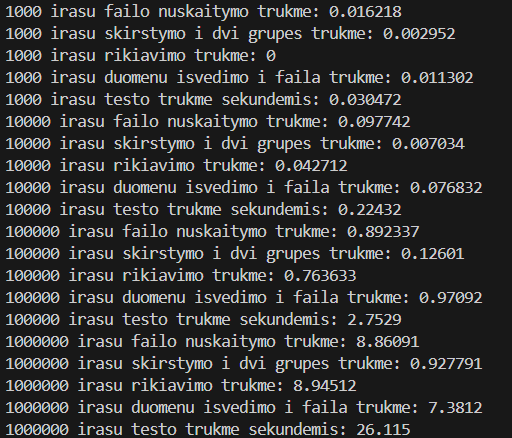
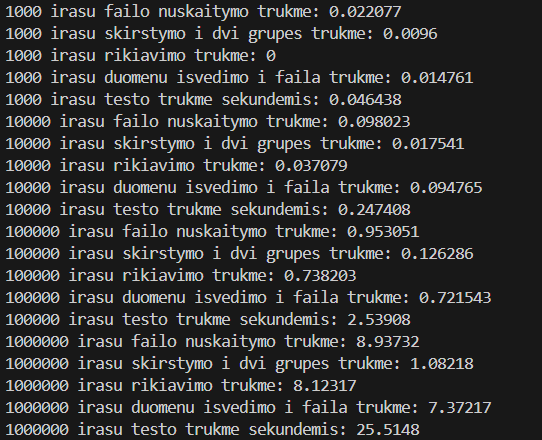
Edited the README.md file
Edited the README.md file with more accurate times

diff --git a/README.md b/README.md
@@ -22,10 +22,10 @@ This is the fifth subversion of my project v0.4
 
 | Studentu skaicius | Failo generavimo trukme | Duomenu nuskaitymo trukme | Duomenu skirstymo trukme | Duomenu rikiavimo trukme | Duomenu isvedimo i failus trukme | Viso testo trukme |
 | ----------------- | ----------------------- | ------------------------- | ------------------------ | ------------------------ | -------------------------------- | ----------------- |
-| 1000              | 0.015606                | 0.016218                  | 0.002952                 | 0                        | 0.011302                         | 0.030472          |
-| 10000             | 0.066734                | 0.097742                  | 0.007034                 | 0.042712                 | 0.076832                         | 0.22432           |
-| 100000            | 0.579735                | 0.892337                  | 0.12601                  | 0.763633                 | 0.97092                          | 2.7529            |
-| 1000000           | 5.70716                 | 8.86091                   | 0.927791                 | 8.94512                  | 7.3812                           | 26.115            |
+| 1000              | 0.015606                | 0.022077                  | 0.0096                   | 0                        | 0.014761                         | 0.046438          |
+| 10000             | 0.066734                | 0.098023                  | 0.017541                 | 0.037079                 | 0.094765                         | 0.247408          |
+| 100000            | 0.579735                | 0.953051                  | 0.126286                 | 0.738203                 | 0.721543                         | 2.53988           |
+| 1000000           | 5.70716                 | 8.93732                   | 1.08218                  | 8.12317                  | 7.37217                          | 25.5148           |
 | 10000000          | 56.1039                 | -                         | -                        | -                        | -                                | -                 |
 
 ![The first image of the analysis](1.png)
